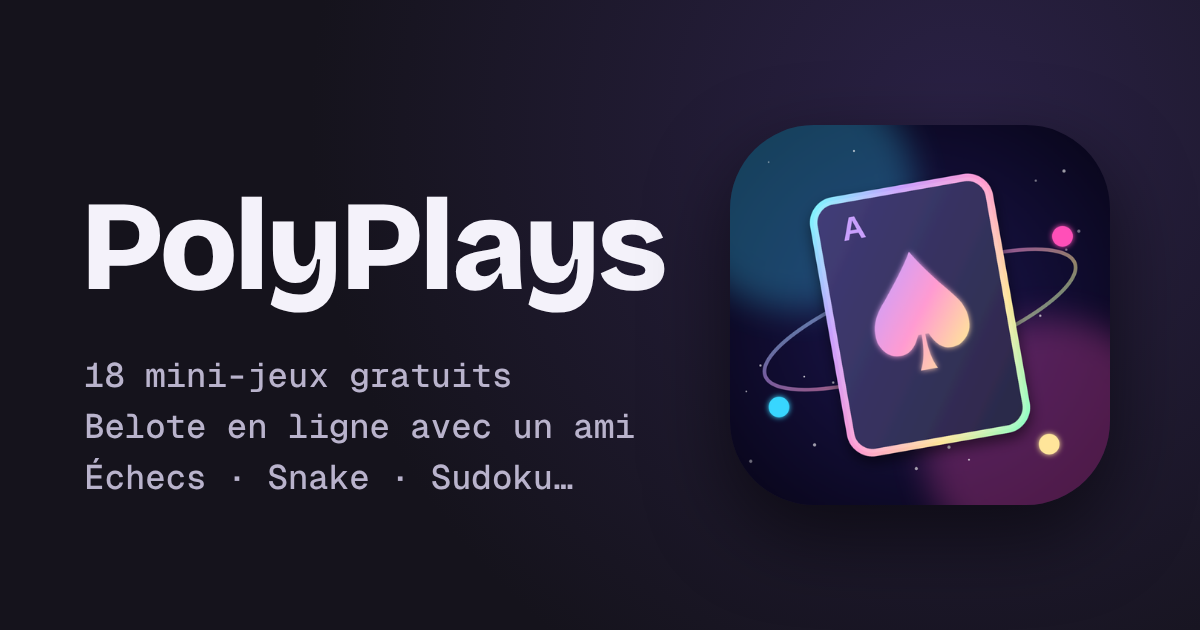
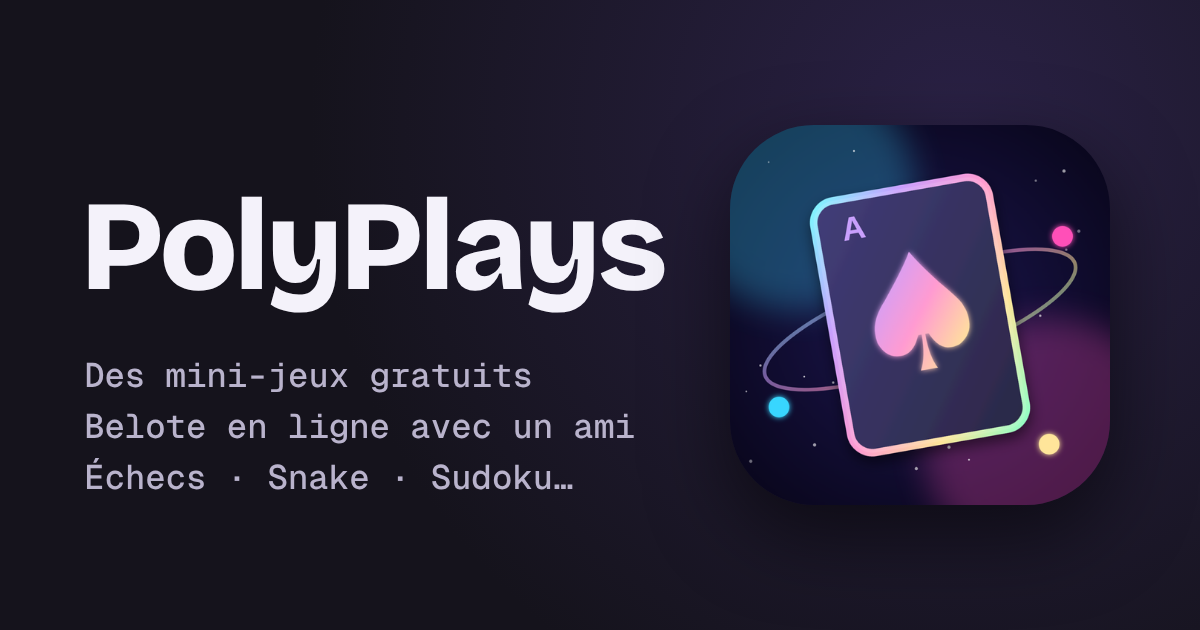
Aperçu de lien : textes sans nombre de jeux
Claude-Session: https://claude.ai/code/session_019VorQ5NZBFLywpijVvjL3n

Changed region(s): [[0.0617, 0.573, 0.4625, 0.6333]]

diff --git a/index.html b/index.html
@@ -10,11 +10,11 @@
 <meta name="apple-mobile-web-app-capable" content="yes">
 <meta name="apple-mobile-web-app-status-bar-style" content="black-translucent">
 <meta name="apple-mobile-web-app-title" content="PolyPlays">
-<meta name="description" content="18 mini-jeux gratuits : belote en ligne avec un ami, échecs, Snake, Sudoku et plus. À installer sur ton téléphone.">
+<meta name="description" content="Mini-jeux gratuits : belote en ligne avec un ami, échecs, Snake, Sudoku et bien d'autres. À installer sur ton téléphone.">
 <meta property="og:type" content="website">
 <meta property="og:site_name" content="PolyPlays">
-<meta property="og:title" content="PolyPlays · 18 mini-jeux">
-<meta property="og:description" content="Belote en ligne avec un ami, échecs, Snake, Sudoku et plus. Gratuit, à installer sur ton téléphone.">
+<meta property="og:title" content="PolyPlays · mini-jeux gratuits">
+<meta property="og:description" content="Belote en ligne avec un ami, échecs, Snake, Sudoku et bien d'autres. À installer sur ton téléphone.">
 <meta property="og:url" content="https://polyplays.polytabs.fr/">
 <meta property="og:image" content="https://polyplays.polytabs.fr/og.png">
 <meta property="og:image:width" content="1200">

diff --git a/sw.js b/sw.js
@@ -1,4 +1,4 @@
-const V = 'polyplays-8007163aaa';
+const V = 'polyplays-692311098b';
 const CORE = ['./', 'index.html', 'manifest.webmanifest', 'icons/icon-192.png', 'icons/icon-512.png', 'icons/apple-touch-icon.png', 'peerjs.min.js',
   'fonts/instrument-sans-latin-400-normal.woff2', 'fonts/instrument-sans-latin-500-normal.woff2', 'fonts/instrument-sans-latin-600-normal.woff2', 'fonts/instrument-sans-latin-700-normal.woff2',
   'fonts/geist-mono-latin-400-normal.woff2', 'fonts/geist-mono-latin-500-normal.woff2', 'fonts/geist-mono-latin-600-normal.woff2',
